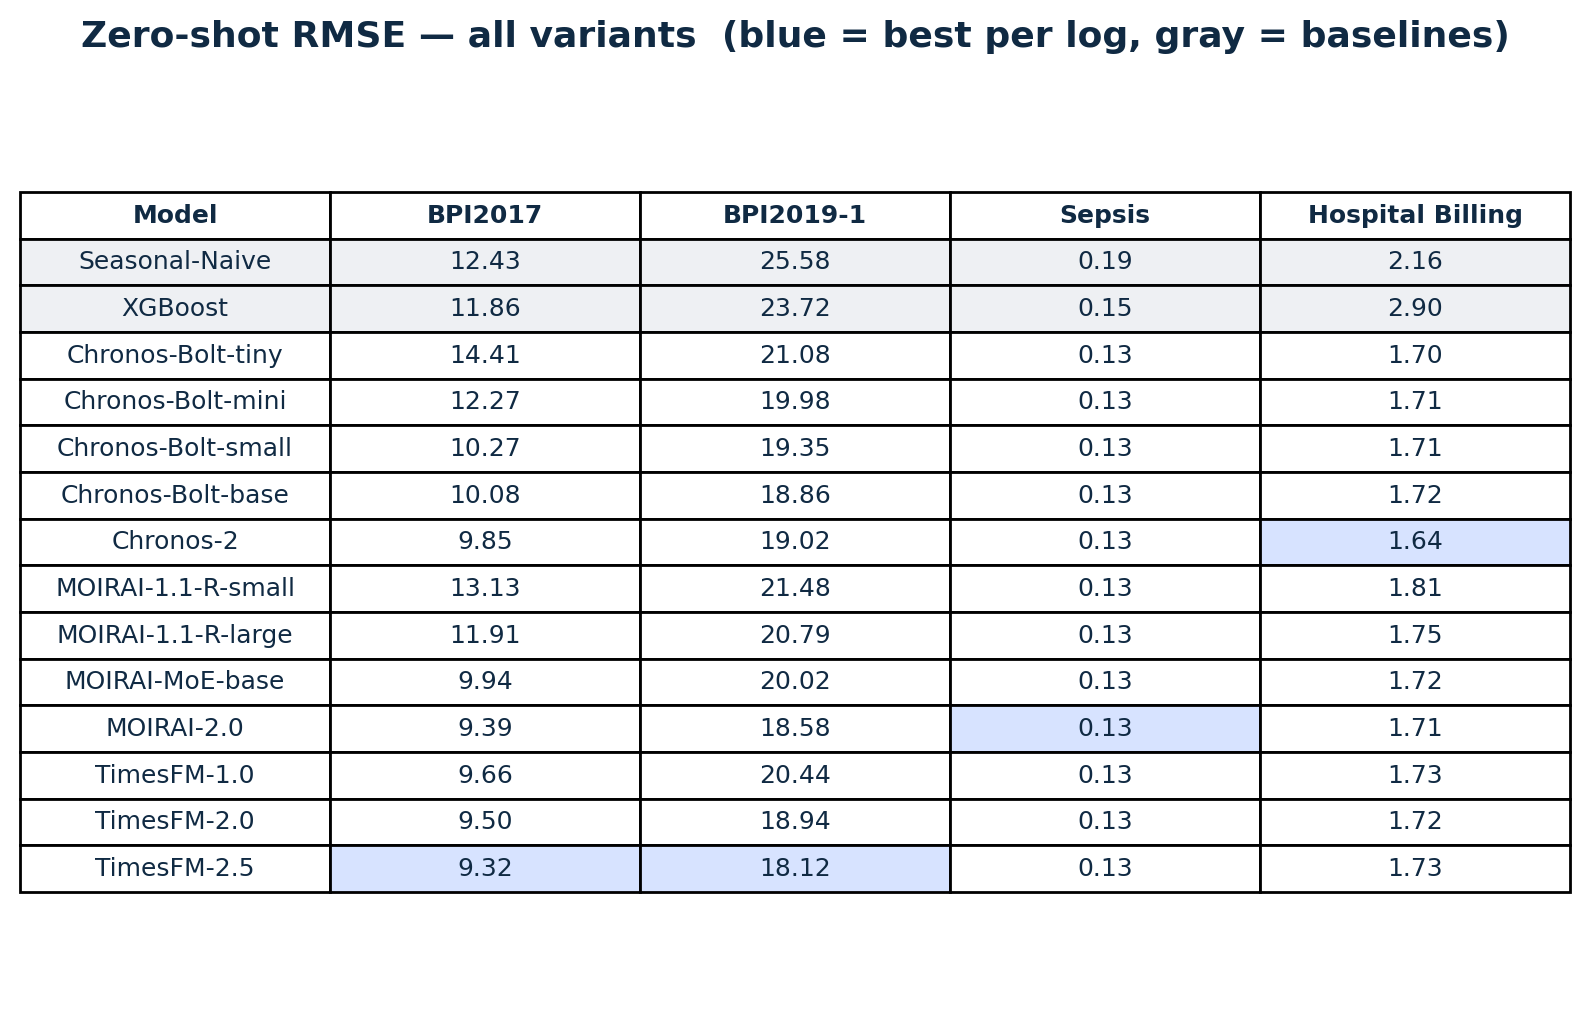
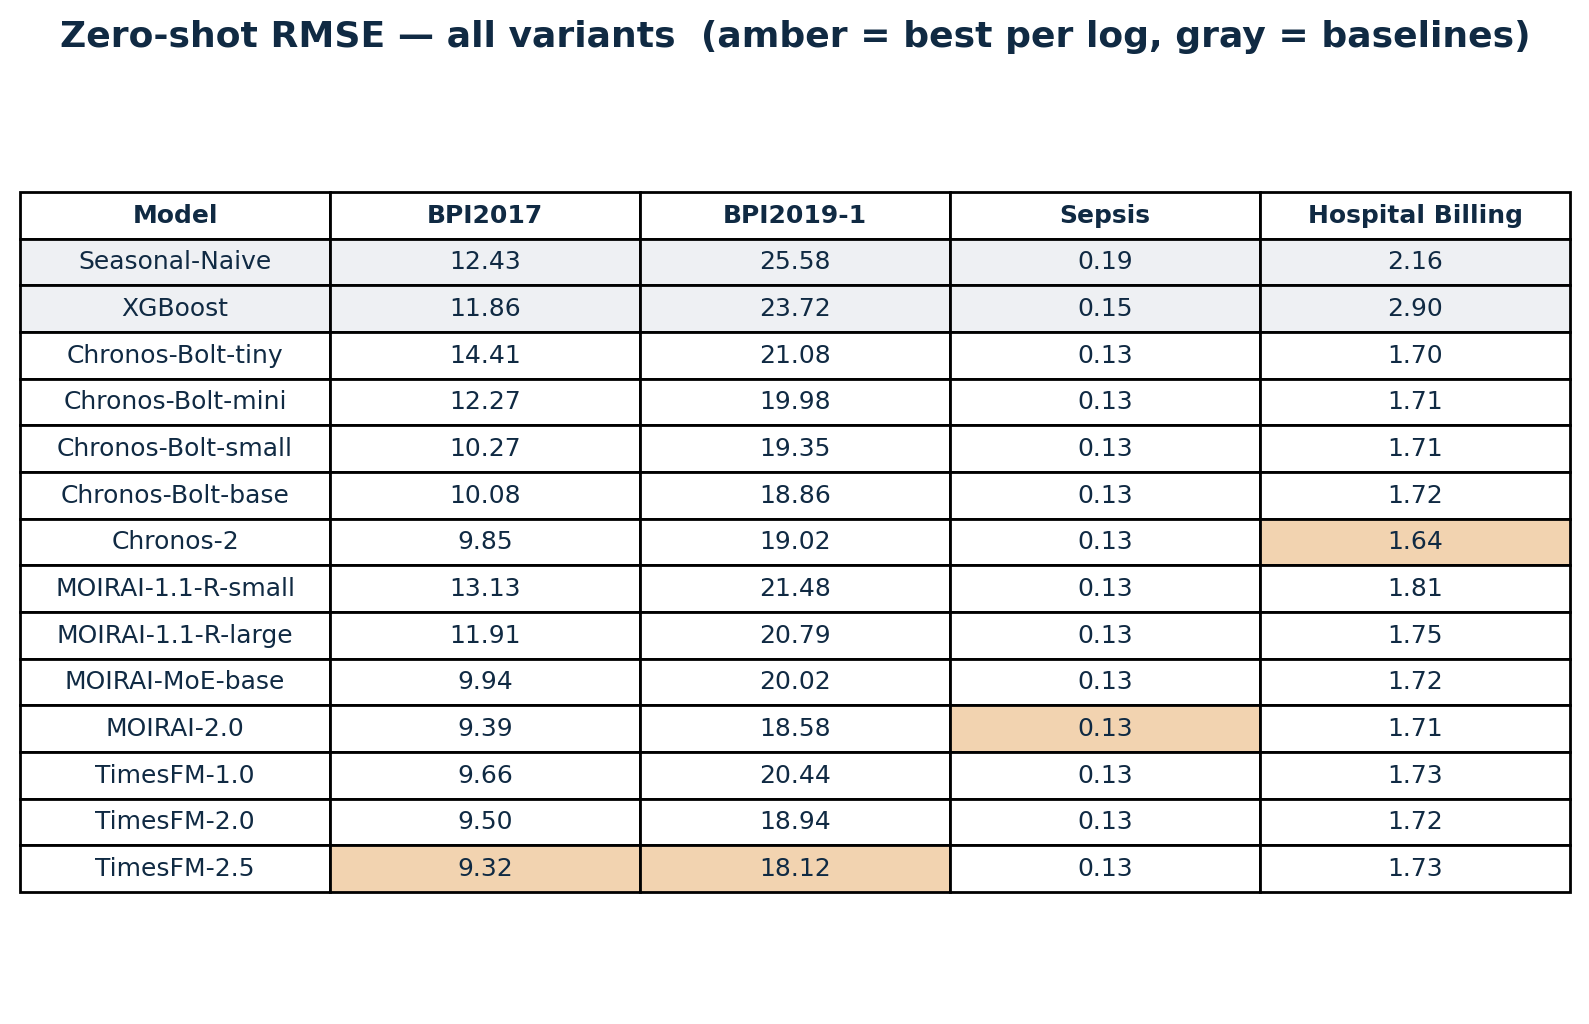
feat(slides): redesign all Q&A backup frames onto the assertion-evidence idiom
Bring the 8 backup (Q&A-defense) frames up to the polish of the revised main
slides, editing only the backup region of slides.md (mains S2–S20 untouched).

- Convert every backup to layout: assertion-evidence with a muted slate locator
  pill (new .backup .locator rule), assertion headline, and hideInToc on each.
- Fill the two placeholders honestly with paper-faithful numbers: B1 baseline
  ranking becomes a two-card justification (no fabricated Yu-2025 table); B5
  Sepsis becomes a text card (790 variants / 999 cases, ER fitting ratios,
  MAE ↓28% caveat) — no Sepsis figure invented.
- Drop the XGBoost trial-count stub on B3; re-home off-palette colours onto
  the locked tokens; keep the 21-benchmark comparison (B4) qualitative.
- Recolour the RMSE best-per-log highlight from blue to an amber tint of the
  deck accent in make_figures.py, and regenerate rmse-full.png.
- Legibility pass per the SLIDES.md type scale: enlarge undersized claim lines
  (B1, B4) and split B5's ER-ratio row into reference vs TSFM lines.

diff --git a/slides/template/style.css b/slides/template/style.css
@@ -76,6 +76,10 @@
   border-radius: 6px;
   margin: 0 0 18px;
 }
+/* backup (Q&A-defense) frames carry `class: backup` in frontmatter — mute the locator
+   pill to slate so a backup reads as off-the-main-thread at a glance, while keeping the
+   same shape + JetBrains Mono identity as the navy mains. */
+.backup .locator { background: var(--neutral); }
 
 /* ---- zone 2: assertion headline (the claim — absorbs the old takeaway) ---- */
 .ae-slide h1,

diff --git a/slides/scripts/make_figures.py b/slides/scripts/make_figures.py
@@ -30,6 +30,7 @@ import matplotlib
 
 matplotlib.use("Agg")
 import figure_manifest as M
+import matplotlib.colors as mcolors
 import matplotlib.patches as mpatches
 import matplotlib.pyplot as plt
 from matplotlib.lines import Line2D
@@ -519,20 +520,30 @@ def fig_rmse_full():
                 best[ds] = (label, vals[ds])
         rows.append((label, kind, vals))
 
+    # best-per-log highlight: a light tint of the deck accent (amber), per the locked
+    # palette ("amber = our emphasis"); baselines a faint neutral gray. Tinting toward
+    # white keeps dark cell text legible while still reading unmistakably amber.
+    def _tint(hex_color, frac):  # frac = fraction toward white
+        r, g, b = mcolors.to_rgb(hex_color)
+        return (r + (1 - r) * frac, g + (1 - g) * frac, b + (1 - b) * frac)
+
+    best_amber = _tint(M.ACCENT, 0.62)
+    baseline_gray = "#eef0f3"
+
     fig, ax = plt.subplots(figsize=(10, 6))
     ax.axis("off")
     col_labels = ["Model"] + [M.DATASET_LABELS[d] for d in M.DATASETS]
     text, colors = [], []
     for label, kind, vals in rows:
         line = [label]
-        crow = ["#eef0f3" if kind == "baseline" else "white"]
+        crow = [baseline_gray if kind == "baseline" else "white"]
         for ds in M.DATASETS:
             v = vals[ds]
             line.append("—" if v is None else f"{v:.2f}")
             crow.append(
-                "#d7e3ff"
+                best_amber
                 if best[ds][0] == label
-                else ("#eef0f3" if kind == "baseline" else "white")
+                else (baseline_gray if kind == "baseline" else "white")
             )
         text.append(line)
         colors.append(crow)
@@ -545,7 +556,7 @@ def fig_rmse_full():
     for c in range(len(col_labels)):
         tbl[(0, c)].set_text_props(fontweight="bold")
     ax.set_title(
-        "Zero-shot RMSE — all variants  (blue = best per log, gray = baselines)",
+        "Zero-shot RMSE — all variants  (amber = best per log, gray = baselines)",
         fontweight="bold",
         pad=12,
     )

diff --git a/slides/template/slides.md b/slides/template/slides.md
@@ -1348,184 +1348,212 @@ Hostile-Q answers rehearsed cold — see SLIDES.md "Required backup slides" + th
 -->
 
 ---
+layout: assertion-evidence
+class: backup
 hideInToc: true
+locator: Backup
+assertion: Both baselines are the strongest from our prior benchmark
 ---
 
-# Backup · Full baseline ranking (Yu 2025)
-
-<div class="border-2 border-dashed border-gray-400 rounded-lg p-4 flex items-center justify-center min-h-[400px]">
-<div class="text-center opacity-60 text-sm">
-[PLACEHOLDER]<br/>
-Full benchmark ranking from Yu et al. 2025<br/>
-All methods × all datasets<br/>
-Used to defend the 2-baseline choice on the main results slide
+<div class="ae-cols">
+  <div class="ae-col">
+    <div class="ae-collabel">Seasonal-Naive</div>
+    <div class="ae-lead">Strongest non-trained baseline</div>
+    <ul>
+      <li>7-day lag matches the weekly cadence</li>
+    </ul>
+  </div>
+  <div class="ae-col">
+    <div class="ae-collabel">XGBoost</div>
+    <div class="ae-lead">Strongest trained ML baseline</div>
+    <ul>
+      <li>Recommended by the Yu 2025 benchmark</li>
+    </ul>
+  </div>
 </div>
-</div>
 
-<!--
-Q&A defense: "We compare against the two strongest baselines from our prior
-benchmark — here's the full ranking."
--->
+<div class="text-center mt-10" style="font-size:20px;color:var(--neutral)">Not cherry-picked — the full ranking lives in the Yu 2025 benchmark.</div>
+
+<!-- speaker note: Honest answer to "why only two baselines?" We did not cherry-pick — these are the top non-trained and top trained methods from the external Yu 2025 benchmark. The full ranking table lives in that benchmark, not in this deck; happy to point to it offline. -->
 
 ---
+layout: assertion-evidence
+class: backup
 hideInToc: true
+locator: Backup
+assertion: RMSE confirms the MAE ranking on every log
 ---
 
-# Backup · Full RMSE table
+<img src="/figures/rmse-full.png" class="block mx-auto w-full max-h-[430px] object-contain rounded-lg" alt="Full RMSE table across all four event logs — figure self-titles; blue = best per log, gray = baseline rows; latest zero-shot TSFMs are best or competitive on every log" />
 
-<img src="/figures/rmse-full.png" class="block mx-auto rounded-lg w-full max-h-[420px] object-contain" alt="Full zero-shot RMSE table — all model variants × 4 logs; confirms the MAE ranking" />
+<div class="flex justify-center mt-3" v-click="1">
+  <Callout>Latest zero-shot TSFMs best or competitive on all four logs</Callout>
+</div>
 
-<div class="caption mt-2 text-center">RMSE from our re-run (paper reports MAE, Table 4); baselines may differ slightly from camera-ready.</div>
+<div class="caption text-center mt-2" style="color:var(--neutral)">RMSE from our re-run (paper Table 4 reports MAE); baselines may differ slightly from the camera-ready.</div>
 
-<!--
-Q&A defense: when asked "does RMSE tell the same story?" — yes, point at this.
-Provenance: RMSE has no paper table (paper Table 4 is MAE); built from results/ CSVs, so its
-baselines carry the re-run delta flagged in make_figures.py. Story (TSFMs win) unchanged.
--->
+<!-- speaker note: RMSE has no dedicated paper table — Table 4 reports MAE only. This table is built from the same results CSVs as the MAE bars, re-run on our side, so baseline rows can drift a hair from the camera-ready. The ranking is the point: switching the error metric to RMSE does not change the story — the latest zero-shot TSFM per family is best or statistically competitive on every one of the four logs, same as MAE. -->
 
 ---
+layout: assertion-evidence
+class: backup
 hideInToc: true
+locator: Backup
+assertion: ER reaches parity on three logs — Sepsis is the exception
 ---
 
-# Backup · ER across all four logs
+<img src="/figures/er-bars.png" class="block mx-auto w-full max-h-[400px] object-contain rounded-lg" alt="Entropic Relevance across four logs — TSFMs match baselines on BPI2017, BPI2019-1 and Hospital Billing, but trail far behind on Sepsis (bottom-left panel)" />
 
-<img src="/figures/er-bars.png" class="block mx-auto rounded-lg w-full max-h-[380px] object-contain" alt="Entropic Relevance across all 4 event logs — TSFMs match baselines except Sepsis" />
-
-<div class="mt-3 text-sm opacity-80 text-center">
-Parity on BPI2017 / BPI2019-1 / Hospital Billing. <strong>Sepsis is the exception</strong> — high behavioral heterogeneity defeats all models (TSFMs worst, tiny fitting ratios).
+<div class="flex justify-center mt-3" v-click="1">
+  <Callout>Sepsis (bottom-left): ER far above the rest — TSFMs worst</Callout>
 </div>
 
-<!--
-Q&A defense: the main ER slide shows Hospital Billing only. This is the full picture.
-Sepsis: ER far above Truth AND lowest fitting ratios — the process is both heterogeneous
-and hard to encode with any single forecasted model.
--->
+<div class="caption text-center mt-2" style="color:var(--neutral)">Parity on BPI2017 / BPI2019-1 / Hospital Billing · Source: paper ER table</div>
+
+<!-- speaker note: The main ER slide showed only Hospital Billing; this generalises it. On three of four logs TSFMs sit at parity with the baselines. Sepsis is the lone exception — it is both heterogeneous (many rare variants) and intrinsically hard to encode, so ER stays high. This sets up the next Sepsis-specific frame. -->
 
 ---
+layout: assertion-evidence
+class: backup
 hideInToc: true
+locator: Backup
+assertion: Baselines were tuned; the fine-tuning recipe is fully specified
 ---
 
-# Backup · Hyperparameter configuration
-
-<div class="grid grid-cols-2 gap-6 mt-4 text-sm">
-
-<div>
-<div class="font-semibold mb-2">XGBoost</div>
-<div class="opacity-80">
-- Optuna hyperparameter optimization<br/>
-- N trials per dataset (specify exact count)<br/>
-- Lagged features, daily aggregation
-</div>
-</div>
-
-<div>
-<div class="font-semibold mb-2">LoRA / Full FT</div>
-<div class="opacity-80">
-- LoRA: r=2, α=4, applied to Q/K/V/O<br/>
-- Patch size 16, batch 32<br/>
-- LR 1e-4, AdamW, 3 epochs<br/>
-- Full FT follows original model recipes
-</div>
+<div class="ae-cols">
+  <div class="ae-col">
+    <div class="ae-collabel">XGBoost</div>
+    <div class="ae-lead">Tuned per dataset, not left at defaults</div>
+    <ul>
+      <li>Optuna hyperparameter optimization, per dataset</li>
+      <li>Lagged features, daily aggregation</li>
+    </ul>
+  </div>
+  <div class="ae-col">
+    <div class="ae-collabel">LoRA / full fine-tuning</div>
+    <div class="ae-lead">Fully specified, reproducible recipe</div>
+    <ul>
+      <li>LoRA r=2, α=4 on Q/K/V/O attention</li>
+      <li>Patch 16 · batch 32 · AdamW · LR 1e-4 · 3 epochs</li>
+      <li>Full fine-tuning uses each model's original recipe</li>
+    </ul>
+  </div>
 </div>
 
-</div>
-
-<!--
-Q&A defense: pre-empts "was your baseline actually tuned?" and "what's your LoRA setup?"
--->
+<!-- speaker note: Pre-empts "was the baseline even tuned?" — yes, XGBoost gets per-dataset Optuna search over lagged daily-aggregated features, so the comparison is fair. And "what was the LoRA setup?" — rank 2, alpha 4 on the attention projections (Q/K/V/O), patch 16, batch 32, AdamW at 1e-4 for 3 epochs; full fine-tuning instead follows each model's own published recipe. Deliberately not quoting an Optuna trial count: the exact N isn't pinned in the repo, so I won't invent one — happy to confirm offline. -->
 
 ---
+layout: assertion-evidence
+class: backup
 hideInToc: true
+locator: Backup
+assertion: DF series are hard on transition, shifting, non-Gaussianity
 ---
 
-# Backup · DF complexity vs standard benchmarks
+<div class="relative">
+  <img src="/figures/df-complexity-radar.png" class="block mx-auto w-full max-h-[400px] object-contain rounded-lg" alt="Radar of seven complexity metrics for DF series — seasonality, trend, stationarity, transition, shifting, correlation, non-Gaussianity, with transition, shifting and non-Gaussianity markedly elevated" />
+  <div class="absolute" style="right:0;top:50%;transform:translateY(-50%)" v-click="1">
+    <Callout style="text-align:center">Elevated:<br/>Transition · Shifting<br/>· Non-Gaussianity</Callout>
+  </div>
+</div>
 
-<img src="/figures/df-complexity-radar.png" class="block mx-auto rounded-lg max-h-[400px] object-contain" alt="DF time-series complexity radar across 7 metrics for the 4 event logs (paper Table 3)" />
+<div class="text-center mt-2" style="font-size:18px;color:var(--neutral)">Higher than typical public benchmarks (Li et al. 2025)</div>
 
-<!--
-Q&A defense: backs the "DF time series are unusually hard" claim with the
-full quantitative profile.
--->
+<!-- speaker note: The full seven-metric profile — seasonality, trend, stationarity, transition, shifting, correlation, non-Gaussianity — backs the "DF series are unusually hard" claim. Three metrics stand out: frequent regime transitions, distribution shifting over time, and strong non-Gaussianity. The comparison to public forecasting benchmarks stays qualitative: we have no benchmark bars in the repo, so claim only that these three metrics run higher than typical public benchmarks (Li et al. 2025). -->
 
 ---
+layout: assertion-evidence
+class: backup
 hideInToc: true
+locator: Backup
+assertion: Sepsis is an ER exception — extreme behavioral heterogeneity
 ---
 
-# Backup · Sepsis — why it's hard
+<div class="dense" style="max-width:1000px;margin-left:auto;margin-right:auto">
 
-<div class="border-2 border-dashed border-gray-400 rounded-lg p-4 flex items-center justify-center min-h-[380px]">
-<div class="text-center opacity-60 text-sm">
-[PLACEHOLDER]<br/>
-Sepsis DFG sample or trace variant distribution<br/>
-Shows behavioral heterogeneity:<br/>
-many infrequent variants, low fitting ratio<br/><br/>
-Reinforces ER slide's Sepsis caveat
-</div>
+<div class="ae-lead text-center">790 trace variants over 999 cases — huge variant tail, sparse DF activity</div>
+
+<div class="text-center mt-4" style="font-size:16px;color:var(--neutral)">
+  ER fitting ratio — higher = easier to encode · lower = harder
 </div>
 
-<!--
-Q&A defense: "Why does Sepsis fail?" — show the variant tail and the sparse DF activity.
--->
+<div class="text-center mt-1" style="font-size:19px;color:var(--ink)">
+  Truth 100% &nbsp;·&nbsp; Training 77.9% &nbsp;·&nbsp; Naive 39.4% &nbsp;·&nbsp; XGBoost 74.6%
+</div>
+<div class="text-center mt-1" style="font-size:19px;color:var(--brand);font-weight:700">
+  Chronos-2 13.2% &nbsp;·&nbsp; MOIRAI-2.0 4.1% &nbsp;·&nbsp; TimesFM-2.5 17.5%
+</div>
+
+<div class="text-center mt-3" style="color:var(--neutral)">All models struggle; the TSFMs struggle most.</div>
+
+</div>
+
+<div class="flex justify-center mt-4" v-click="1">
+  <Callout>ER exception only — Sepsis still wins on MAE (MOIRAI-2.0 ↓28%)</Callout>
+</div>
+
+<!-- speaker note: Sepsis is the ER outlier. 790 variants over 999 cases means an enormous long tail and very sparse DF activity per relation — so the forecasted model encodes traces poorly and fitting ratios collapse (TSFMs 4–18%). High heterogeneity (variant tail + sparse DF) drives the tiny ratios. Crucially this is ER only: on MAE, Sepsis is still a win — MOIRAI-2.0 cuts error 28%. Don't conflate the two metrics. Sources: stats_log.tex, results_ER.tex, results_1_mae.tex. -->
 
 ---
+layout: assertion-evidence
+class: backup
 hideInToc: true
+locator: Backup
+assertion: We forecast a 7-day horizon; longer horizons are future work
 ---
 
-# Backup · Horizon sensitivity
-
-<div class="text-sm space-y-4 mt-4">
-
-<div>
-We forecast at a <strong>7-day horizon</strong>, matching:
-
-- The cadence used in the Yu 2025 benchmark
-- The operational reporting cadence of the source logs
-- Comparable to the horizons TSFMs were pretrained on (weather, traffic series)
+<div class="ae-cols">
+  <div class="ae-col">
+    <div class="ae-collabel">What we tested — 7 days</div>
+    <div class="ae-lead">Chosen to match every reference point</div>
+    <ul>
+      <li>Matches the Yu 2025 benchmark cadence</li>
+      <li>Matches the source logs' reporting cadence</li>
+      <li>Comparable to TSFM pretraining horizons</li>
+    </ul>
+  </div>
+  <div class="ae-col">
+    <div class="ae-collabel">What remains open — 30+ days</div>
+    <div class="ae-lead">Longer horizons stay future work</div>
+    <ul>
+      <li>Longer horizons untested here</li>
+      <li>Future work: pair forecasts with drift detection</li>
+    </ul>
+  </div>
 </div>
 
-<div>
-<strong>Open question:</strong> longer horizons (30+ days). Not tested here.
-Future work — pair TSFM forecasts with drift detection for adaptive multi-horizon prediction.
-</div>
-
-</div>
-
-<!--
-Q&A defense: "What about month-long horizons?" — acknowledge openly,
-flag as future work; don't pretend we tested it.
--->
+<!-- speaker note: 7 days is a deliberate choice, not a limitation we hide — it lines up with the Yu 2025 benchmark, the logs' own reporting cadence, and typical TSFM pretraining horizons, so comparisons are clean. We did NOT test month-long horizons; I'd flag that openly as future work, ideally paired with drift detection so a forecast is refreshed when the process shifts rather than extrapolated blindly. -->
 
 ---
+layout: assertion-evidence
+class: backup
 hideInToc: true
+locator: Backup
+assertion: Multivariate gave no consistent gains over univariate
 ---
 
-# Backup · Multivariate experiments
-
-<div class="text-sm space-y-4 mt-6">
-
-<div>
-MOIRAI, MOIRAI-MoE, and Chronos-2 support multivariate inference.
-We ran initial multivariate experiments.
+<div class="ae-cols">
+  <div class="ae-col">
+    <div class="ae-collabel">What we tried</div>
+    <div class="ae-lead">Multivariate inference, where the model supports it</div>
+    <ul>
+      <li>MOIRAI, MOIRAI-MoE, Chronos-2 all support it</li>
+      <li>No consistent gains over univariate</li>
+      <li>Consistent with Yu 2025</li>
+    </ul>
+  </div>
+  <div class="ae-col">
+    <div class="ae-collabel">Why &amp; what next</div>
+    <div class="ae-lead">Cross-DF heterogeneity makes shared attention hurt</div>
+    <ul>
+      <li>Cross-series attention hurts at this scale</li>
+      <li>Future work: dedicated multivariate fine-tuning for PMF</li>
+    </ul>
+  </div>
 </div>
 
-<div>
-<strong>Result:</strong> no consistent gains over univariate, consistent with the
-Yu 2025 finding that univariate outperforms multivariate on DF time series.
+<div class="mt-6 text-center">
+  <Callout>Univariate stays our default</Callout>
 </div>
 
-<div>
-<strong>Why?</strong> Likely the high heterogeneity across DF series in one log makes
-cross-series attention hurt more than it helps at this data scale.
-</div>
-
-<div>
-<strong>Open question:</strong> dedicated multivariate fine-tuning for PMF — not
-covered here. Future work.
-</div>
-
-</div>
-
-<!--
-Q&A defense: "Why didn't you use the multivariate capabilities of MOIRAI/Chronos-2?"
-Pre-empted on slide 3 (finding #2), reinforced here with the actual experiment.
--->
+<!-- speaker note: This was pre-empted on the DF-complexity slide — DF series are highly heterogeneous, so the cross-series attention that helps homogeneous panels does not transfer. Here it's reinforced with the actual experiment: we ran true multivariate inference on MOIRAI, MOIRAI-MoE, and Chronos-2 (all three support it natively), and saw no consistent improvement over univariate, matching Yu 2025. We don't claim multivariate is hopeless — only that off-the-shelf shared attention doesn't help at this scale; dedicated multivariate fine-tuning for PMF is the open direction. -->